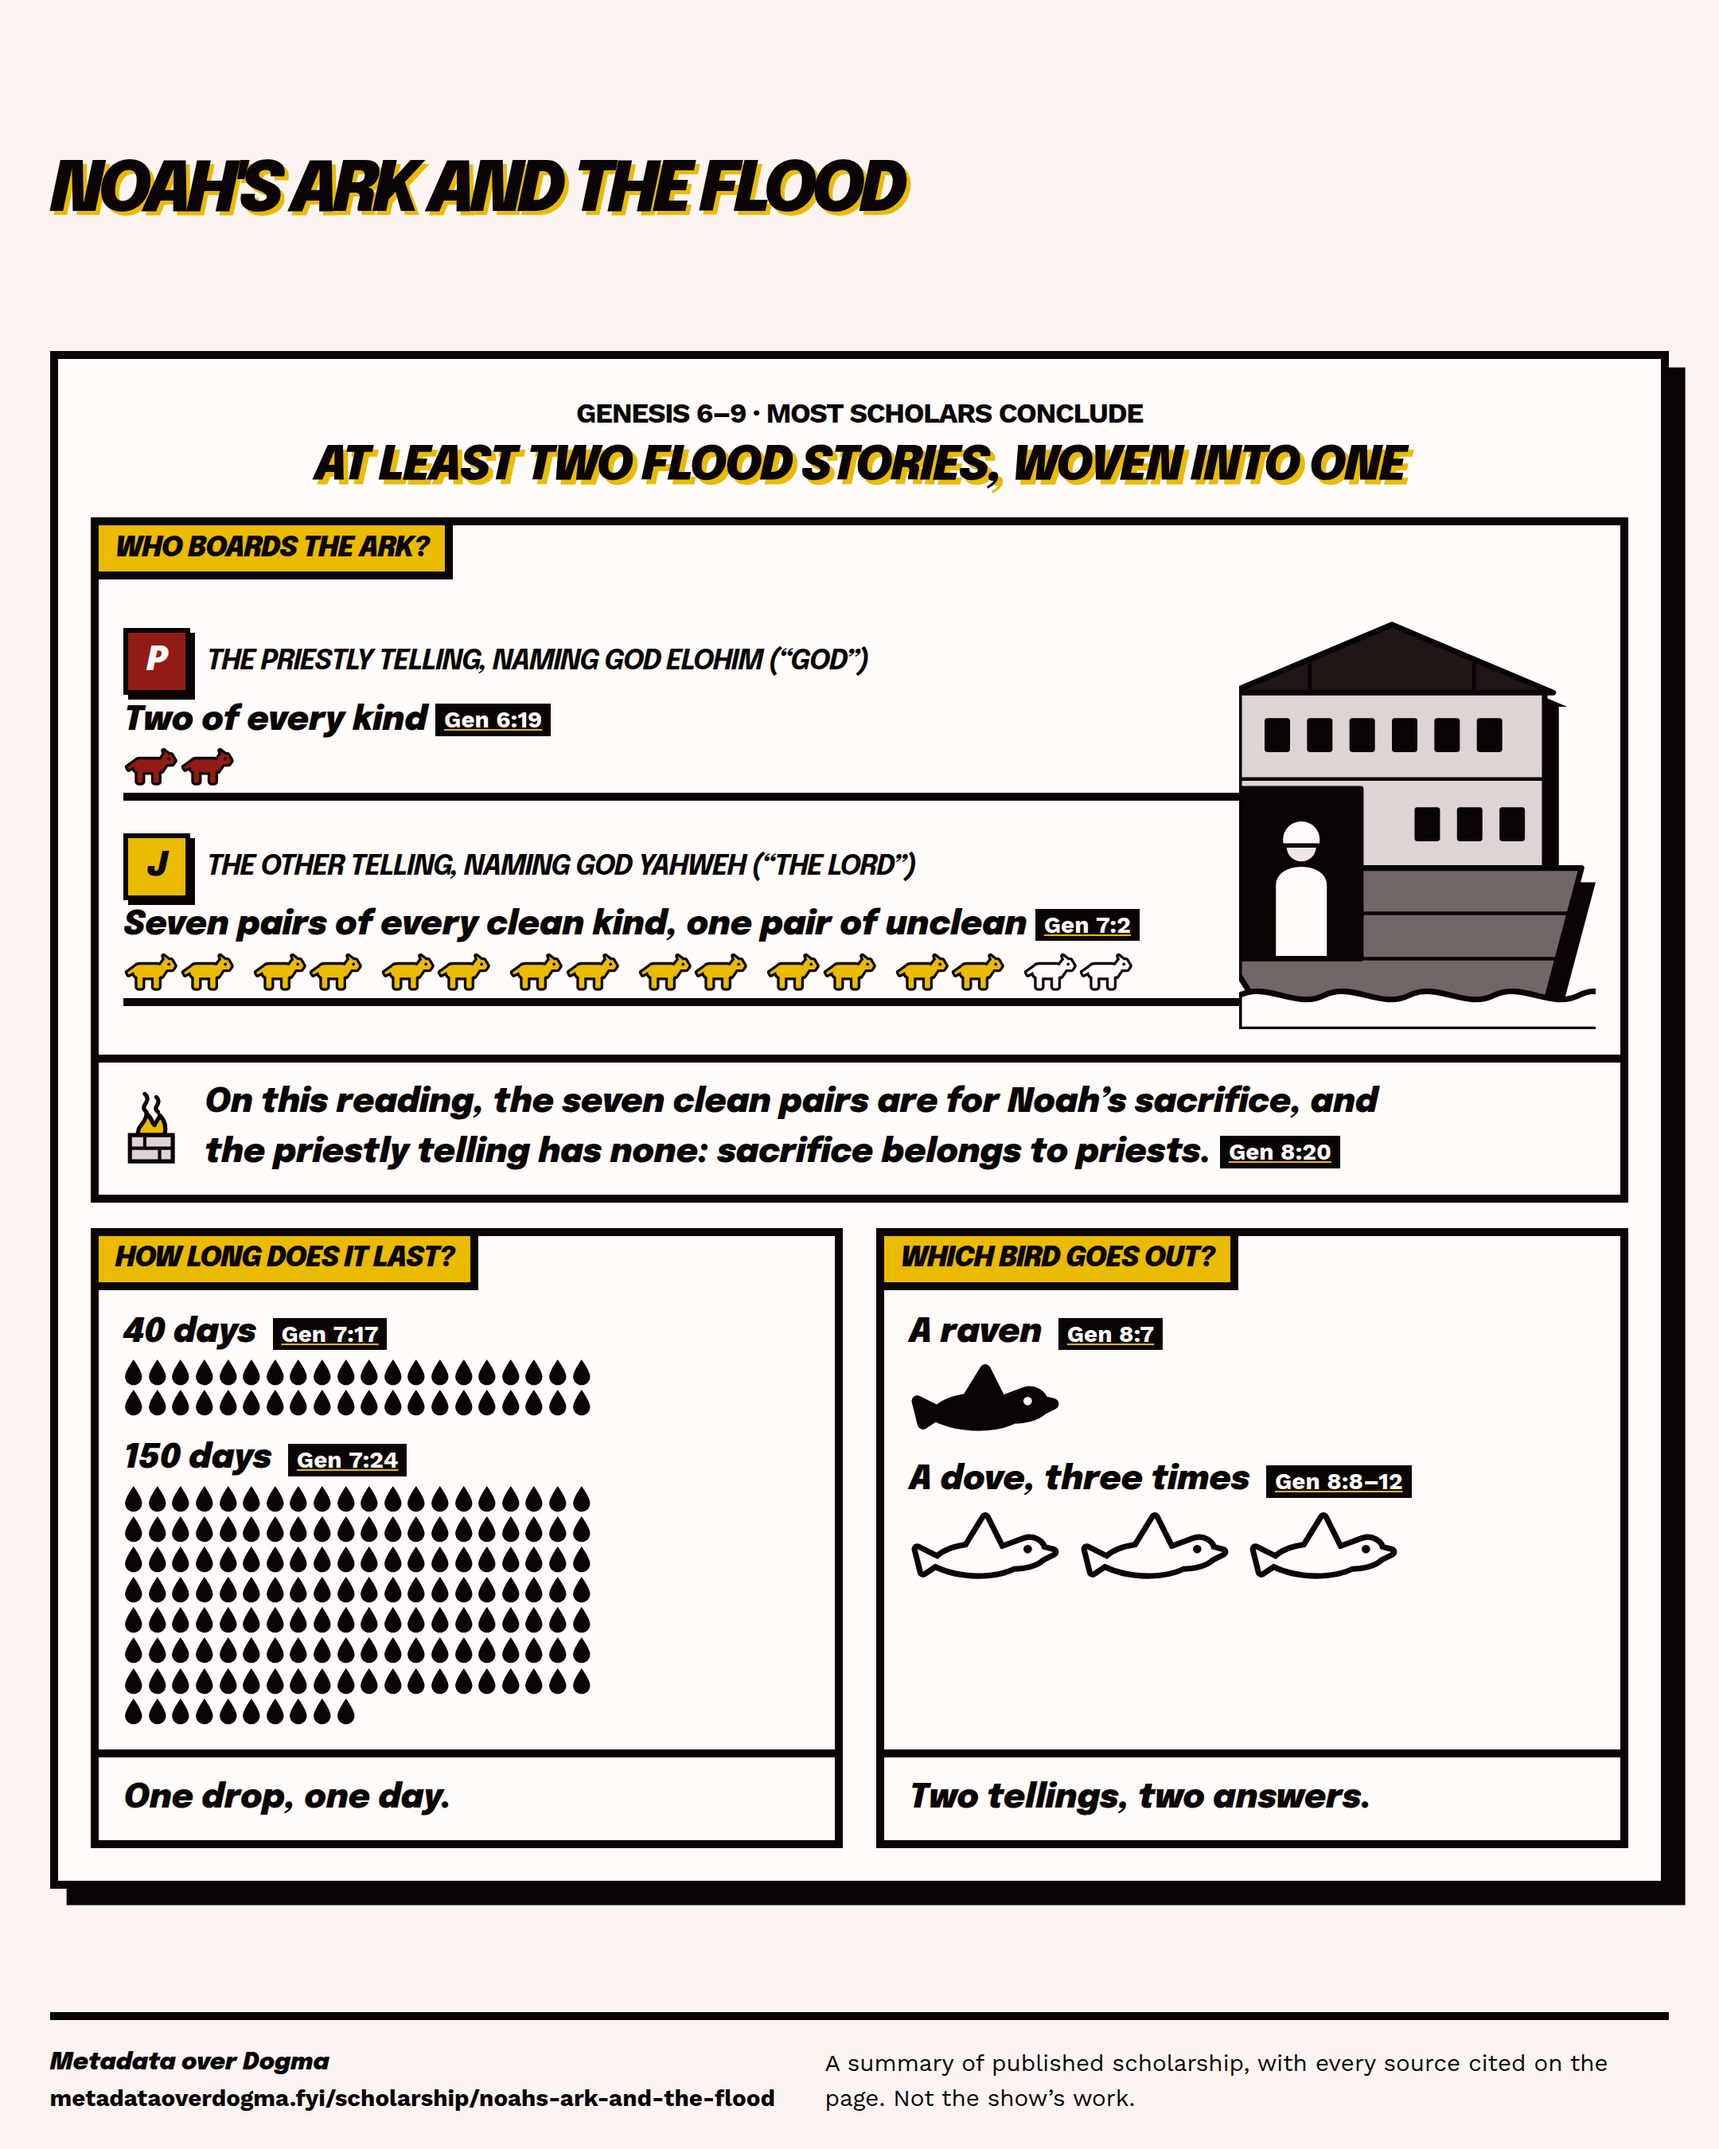
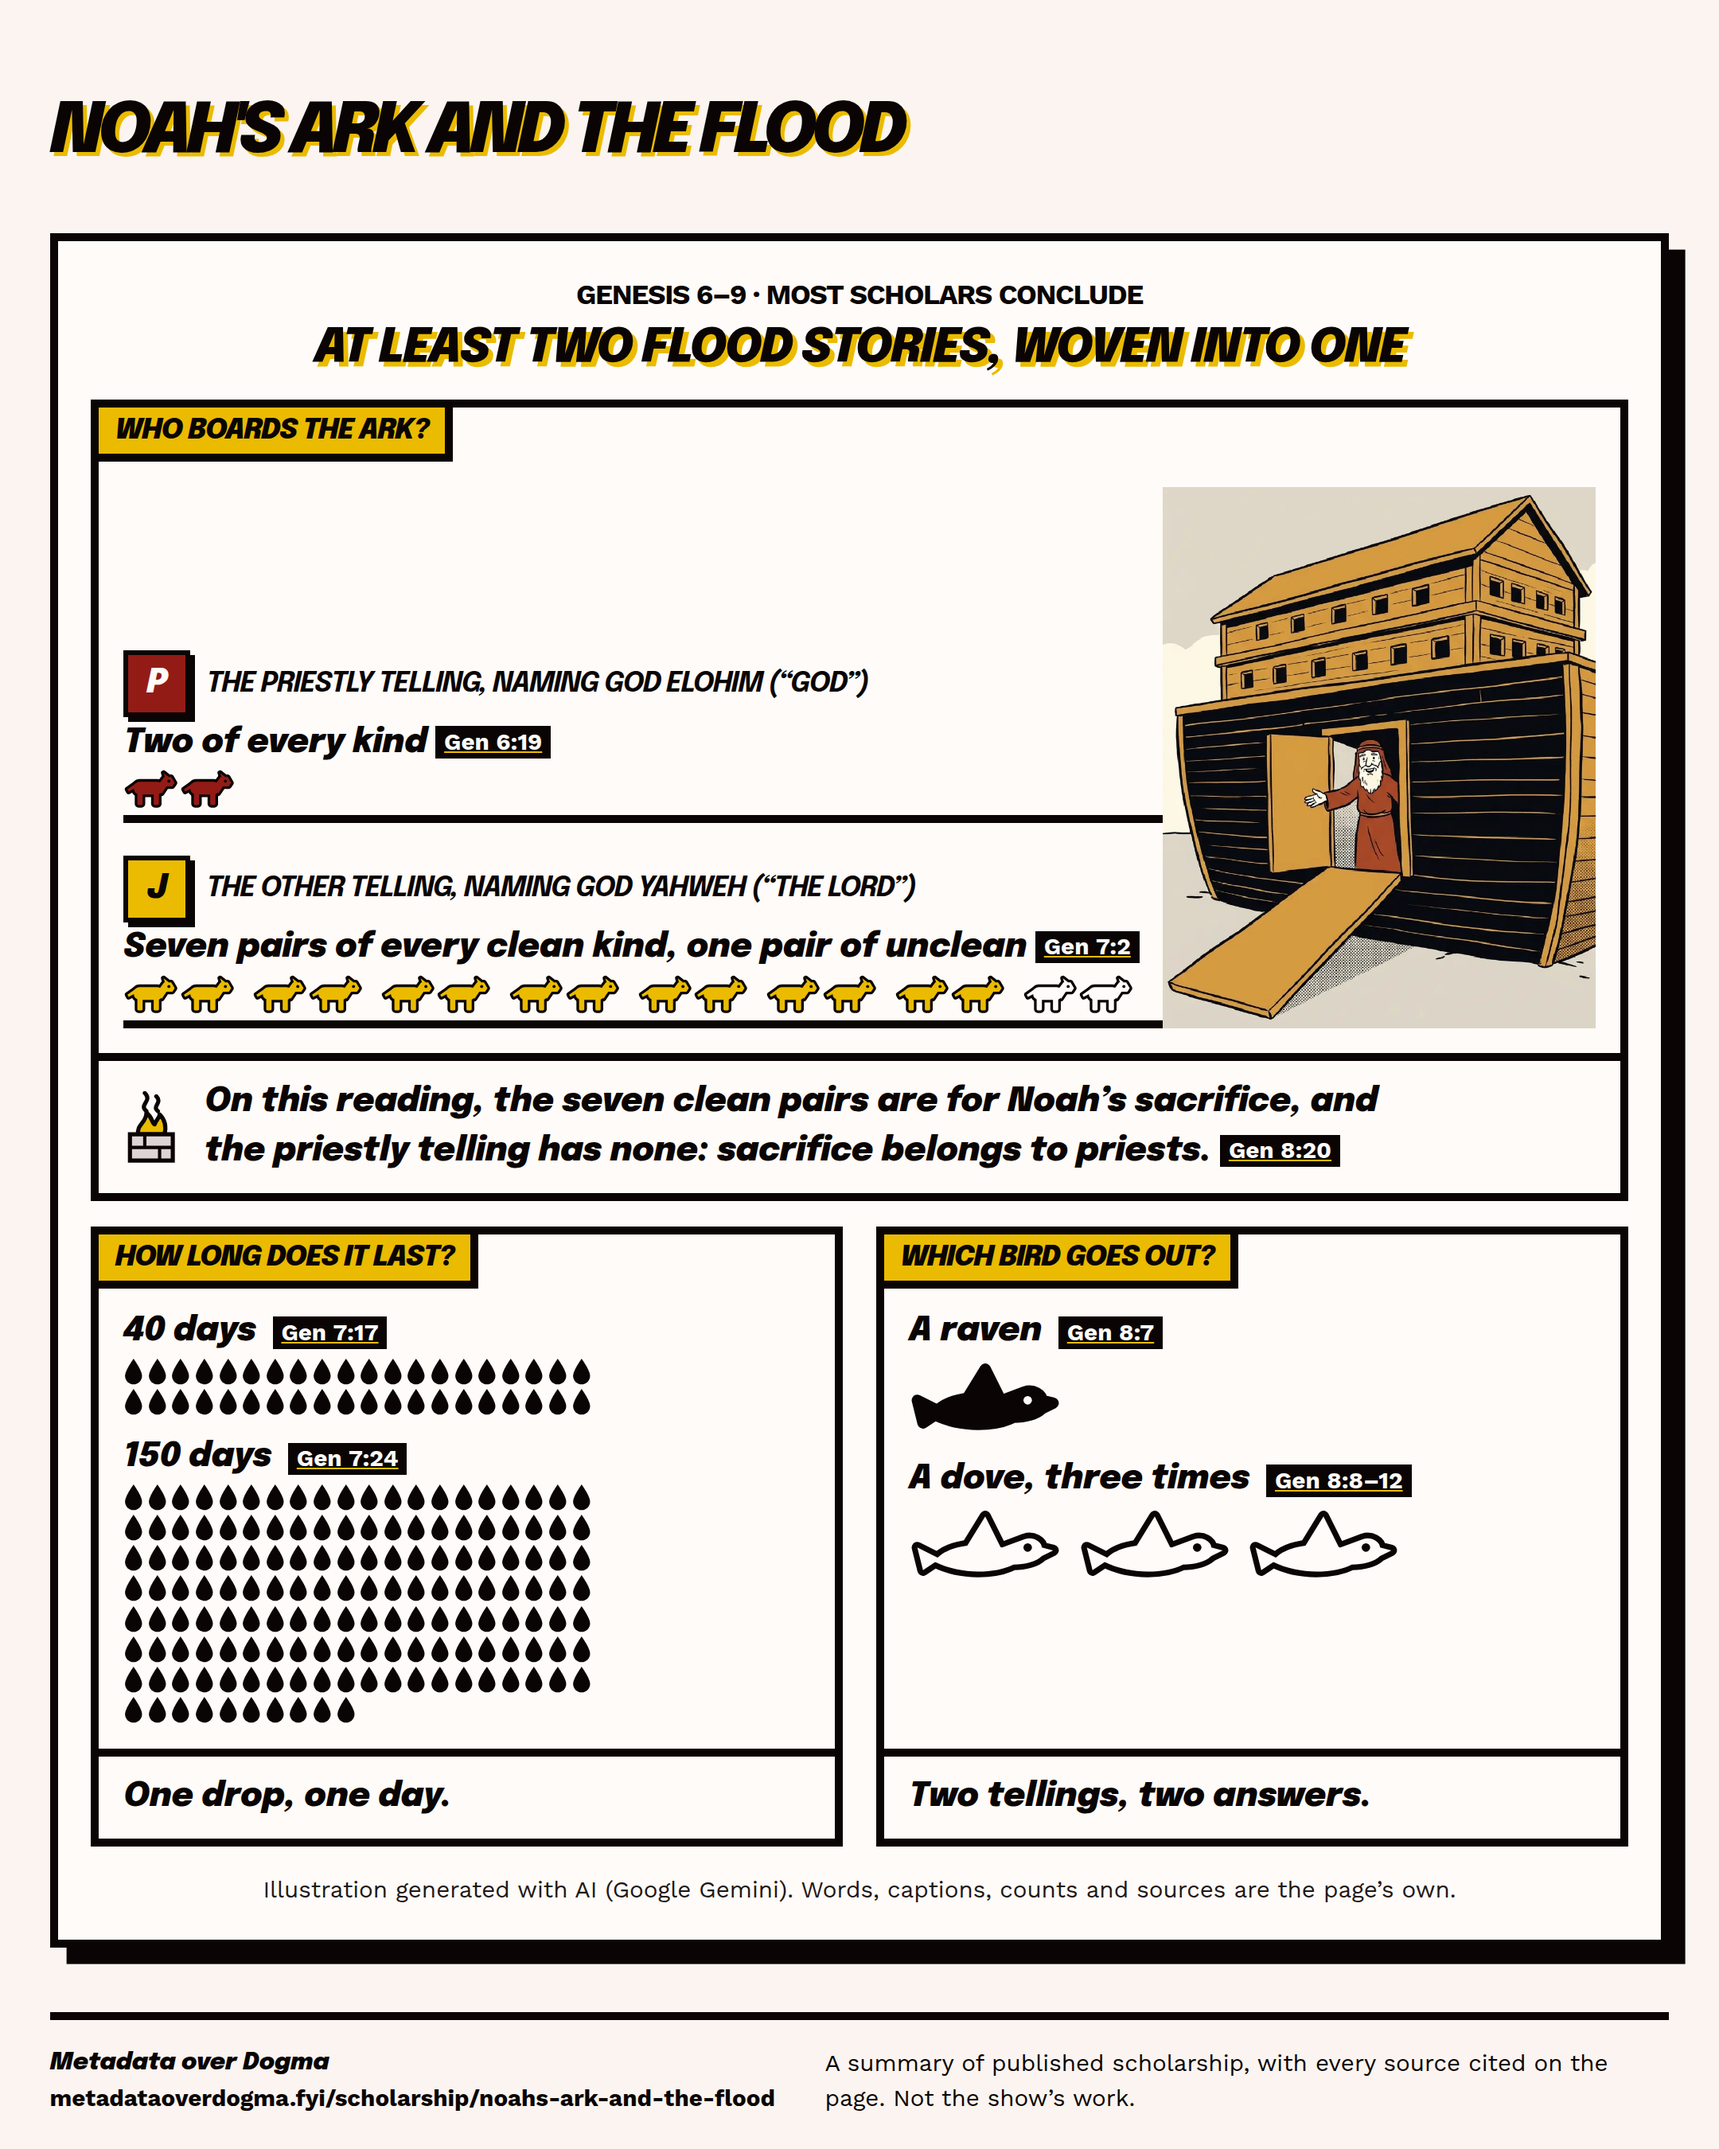
Noah's Ark infographic: Gemini-drawn ark beside the counted boarding lines

diff --git a/hugo/layouts/partials/scholarship-custom/noahs-ark-and-the-flood.html b/hugo/layouts/partials/scholarship-custom/noahs-ark-and-the-flood.html
@@ -11,6 +11,10 @@
   9, 10, 11, 13) and `ark` cite 1 (decks, roof, side door); it makes no claim
   they don't. Every count is drawn exactly. Reword a label only when the
   statement it comes from is re-reviewed.
+
+  The ark is generated with Gemini from
+  data/scholarship-illustrations/noahs-ark-and-the-flood.yaml; it holds no
+  animals, birds or rain, since those are counted here in HTML and SVG.
   */
 -}}
 {{- define "partials/inline/noah-ref.html" -}}
@@ -141,48 +145,18 @@
             </ul>
           </li>
         </ol>
-        {{/* The ark of Gen 6:15–16: three decks, a roof and a door in its side. Its left wall is the viewBox edge, where both lines arrive. */}}
-        <svg
-          class="noah-board__ark"
-          viewBox="20 0 252 300"
-          preserveAspectRatio="xMinYMid meet"
-          aria-hidden="true"
-          focusable="false">
-          <g class="noah-ark__shadow" transform="translate(10 10)">
-            <path d="M14 62 128 14l114 48z" />
-            <path d="M20 60h216v126H20z" />
-            <path d="M20 186h242l-26 98H34l-14-22z" />
-          </g>
-          <path class="noah-ark__hull" d="M20 60h216v126H20z" />
-          <path class="noah-ark__keel" d="M20 186h242l-26 98H34l-14-22z" />
-          <path class="noah-ark__line" d="M20 123h216M20 218h234M20 250h226" />
-          <path class="noah-ark__roof" d="M14 62 128 14l114 48z" />
-          <path class="noah-ark__line" d="M70 38v24M186 38v24" />
-          {{- range seq 0 5 }}
-            <rect
-              class="noah-ark__window"
-              x="{{ add 40 (mul . 30) }}"
-              y="82"
-              width="14"
-              height="20" />
+        {{/* The ark of Gen 6:15–16 (decks, roof, side door) with Noah at the door: generated art, with no animals in it. The counted animals are the HTML band beside it. */}}
+        <div class="noah-board__art">
+          {{- with resources.Get "scholarship-art/noahs-ark-and-the-flood/ark.png" }}
+            {{- $webp := .Process "resize 1000x webp q78" }}
+            <img
+              src="{{ $webp.RelPermalink }}"
+              width="{{ $webp.Width }}"
+              height="{{ $webp.Height }}"
+              alt="Noah stands in the open side door of the ark, a big box-shaped wooden vessel with decks of windows and a roof, beckoning; an empty gangway slopes down from the door."
+              loading="eager" />
           {{- end }}
-          {{- range seq 0 2 }}
-            <rect
-              class="noah-ark__window"
-              x="{{ add 146 (mul . 30) }}"
-              y="145"
-              width="14"
-              height="20" />
-          {{- end }}
-          {{/* The door, open, with Noah standing in it. */}}
-          <path class="noah-ark__door" d="M20 130h86v120H20z" />
-          <path class="noah-ark__noah" d="M44 250v-52c0-20 40-20 40 0v52z" />
-          <circle class="noah-ark__noah" cx="64" cy="166" r="15" />
-          <path class="noah-ark__beard" d="M52 170c0 17 24 17 24 0z" />
-          <path
-            class="noah-ark__sea"
-            d="M20 276c20-10 40 10 60 0s40 10 60 0 40 10 60 0 40 10 60 0 20 10 52 0v24H20z" />
-        </svg>
+        </div>
       </div>
       <figcaption class="noah-board__caption">
         <svg class="noah-board__altar" aria-hidden="true">
@@ -251,6 +225,10 @@
         </figcaption>
       </figure>
     </div>
+    <p class="noah-board__credit" data-card-hide>
+      Illustration generated with AI (Google Gemini). Words, captions, counts
+      and sources are the page’s own.
+    </p>
   </div>
   <p class="noah-board__more scholarship-meta" data-share-hide>
     Every line here comes from the cited answer below:

diff --git a/hugo/assets/css/scholarship-custom/noahs-ark-and-the-flood.css b/hugo/assets/css/scholarship-custom/noahs-ark-and-the-flood.css
@@ -142,67 +142,21 @@
   padding: var(--space-xs);
 }
 
-.noah-board__ark {
-  inline-size: min(100%, 18rem);
+/* The generated ark: its own paper margin trimmed, the gangway at its lower left where the lines arrive. */
+.noah-board__art {
+  aspect-ratio: 4 / 5;
+  inline-size: min(100%, 20rem);
   justify-self: center;
+  line-height: 0;
+  overflow: hidden;
 }
 
-.noah-ark__shadow {
-  fill: var(--noah-ink);
-}
-
-.noah-ark__hull,
-.noah-ark__roof,
-.noah-ark__noah,
-.noah-ark__ramp,
-.noah-ark__door,
-.noah-ark__window,
-.noah-ark__beard {
-  stroke: var(--noah-ink);
-  stroke-linejoin: round;
-  stroke-width: 4;
-}
-
-.noah-ark__hull {
-  fill: var(--noah-stone);
-}
-
-.noah-ark__keel {
-  fill: var(--tan-500);
-  stroke: var(--noah-ink);
-  stroke-linejoin: round;
-  stroke-width: 4;
-}
-
-.noah-ark__roof {
-  fill: var(--tan-700);
-}
-
-.noah-ark__line {
-  fill: none;
-  stroke: var(--noah-ink);
-  stroke-width: 2.5;
-}
-
-.noah-ark__window,
-.noah-ark__door {
-  fill: var(--noah-ink);
-}
-
-.noah-ark__noah,
-.noah-ark__ramp {
-  fill: var(--noah-paper);
-}
-
-.noah-ark__beard {
-  fill: var(--tan-200);
-  stroke-width: 3;
-}
-
-.noah-ark__sea {
-  fill: var(--noah-paper);
-  stroke: var(--noah-ink);
-  stroke-width: 4;
+.noah-board__art > img {
+  block-size: 100%;
+  display: block;
+  inline-size: 100%;
+  object-fit: cover;
+  scale: 1.09;
 }
 
 .noah-board__lines {
@@ -371,6 +325,13 @@
   --noah-eye: var(--noah-ink);
 }
 
+.noah-board__credit {
+  color: var(--tan-700);
+  font-size: var(--step--2);
+  margin: 0;
+  text-align: center;
+}
+
 .noah-board__more {
   margin-block-start: var(--space-s);
 }
@@ -386,13 +347,13 @@
   }
 
   .noah-board__stage {
-    align-items: center;
-    /* No gap: the gangways run all the way to the ark's wall. */
+    align-items: end;
+    /* No gap: the gangways run all the way to the ark. */
     column-gap: 0;
-    grid-template-columns: minmax(0, 1fr) 15rem;
+    grid-template-columns: minmax(0, 1fr) 17rem;
   }
 
-  .noah-board__ark {
+  .noah-board__art {
     inline-size: 100%;
   }
 
@@ -409,7 +370,7 @@
 }
 
 .scholarship-share:target .noah-board__stage {
-  grid-template-columns: minmax(0, 1fr) 14rem;
+  grid-template-columns: minmax(0, 1fr) 17rem;
 }
 
 .scholarship-share:target .noah-board__page {
@@ -428,7 +389,7 @@
 }
 
 .scholarship-share:has(#share-card:target) .noah-board__stage {
-  grid-template-columns: minmax(0, 1fr) 12rem;
+  grid-template-columns: minmax(0, 1fr) 13rem;
 }
 
 .scholarship-share:has(#share-card:target) .noah-board__page {
